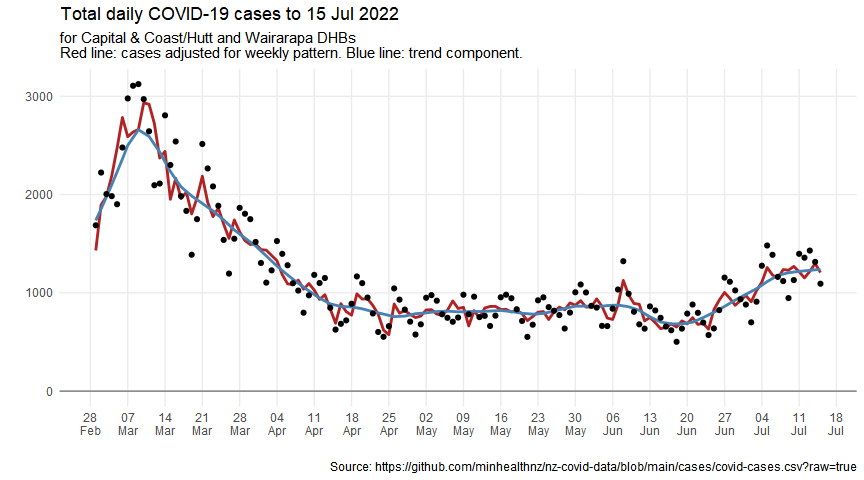
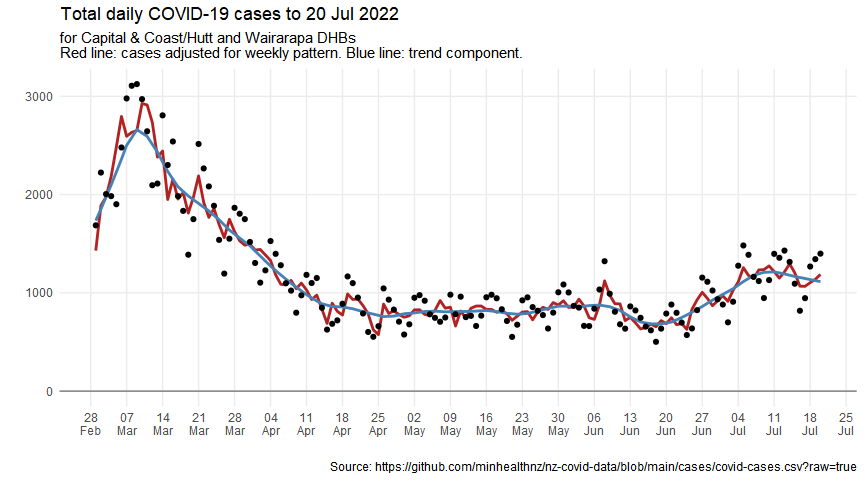
Update for 20220721

diff --git a/covid-post-peak-analysis.md b/covid-post-peak-analysis.md
@@ -29,7 +29,7 @@ cases_df <- read_csv(case_data_url) %>%
   clean_names()
 ```
 
-    ## Rows: 1494272 Columns: 7
+    ## Rows: 1540509 Columns: 7
 
     ## -- Column specification --------------------------------------------------------
     ## Delimiter: ","
@@ -48,7 +48,7 @@ cases_by_dhb_df <- cases_df %>%
   count(report_date, dhb, case_status)
 ```
 
-## Wellington figures up to 15 Jul 2022
+## Wellington figures up to 20 Jul 2022
 
 Including Hutt and Wairarapa as well as CCDHB.
 
